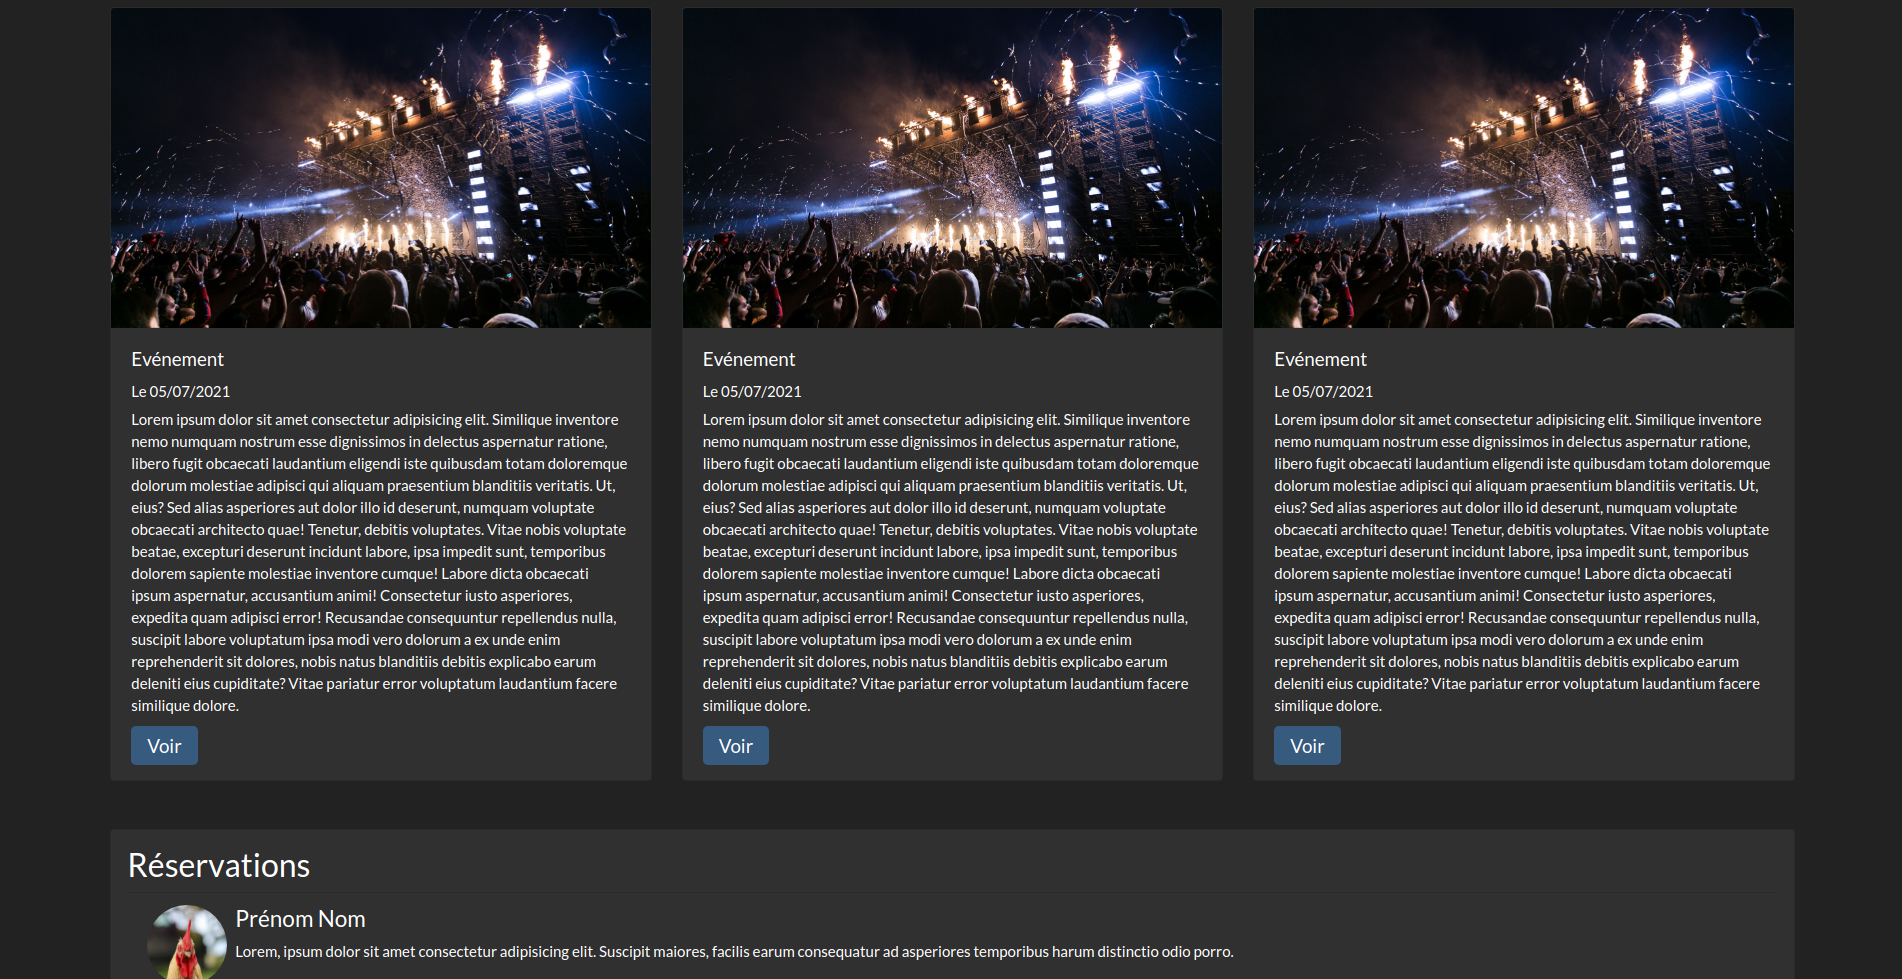
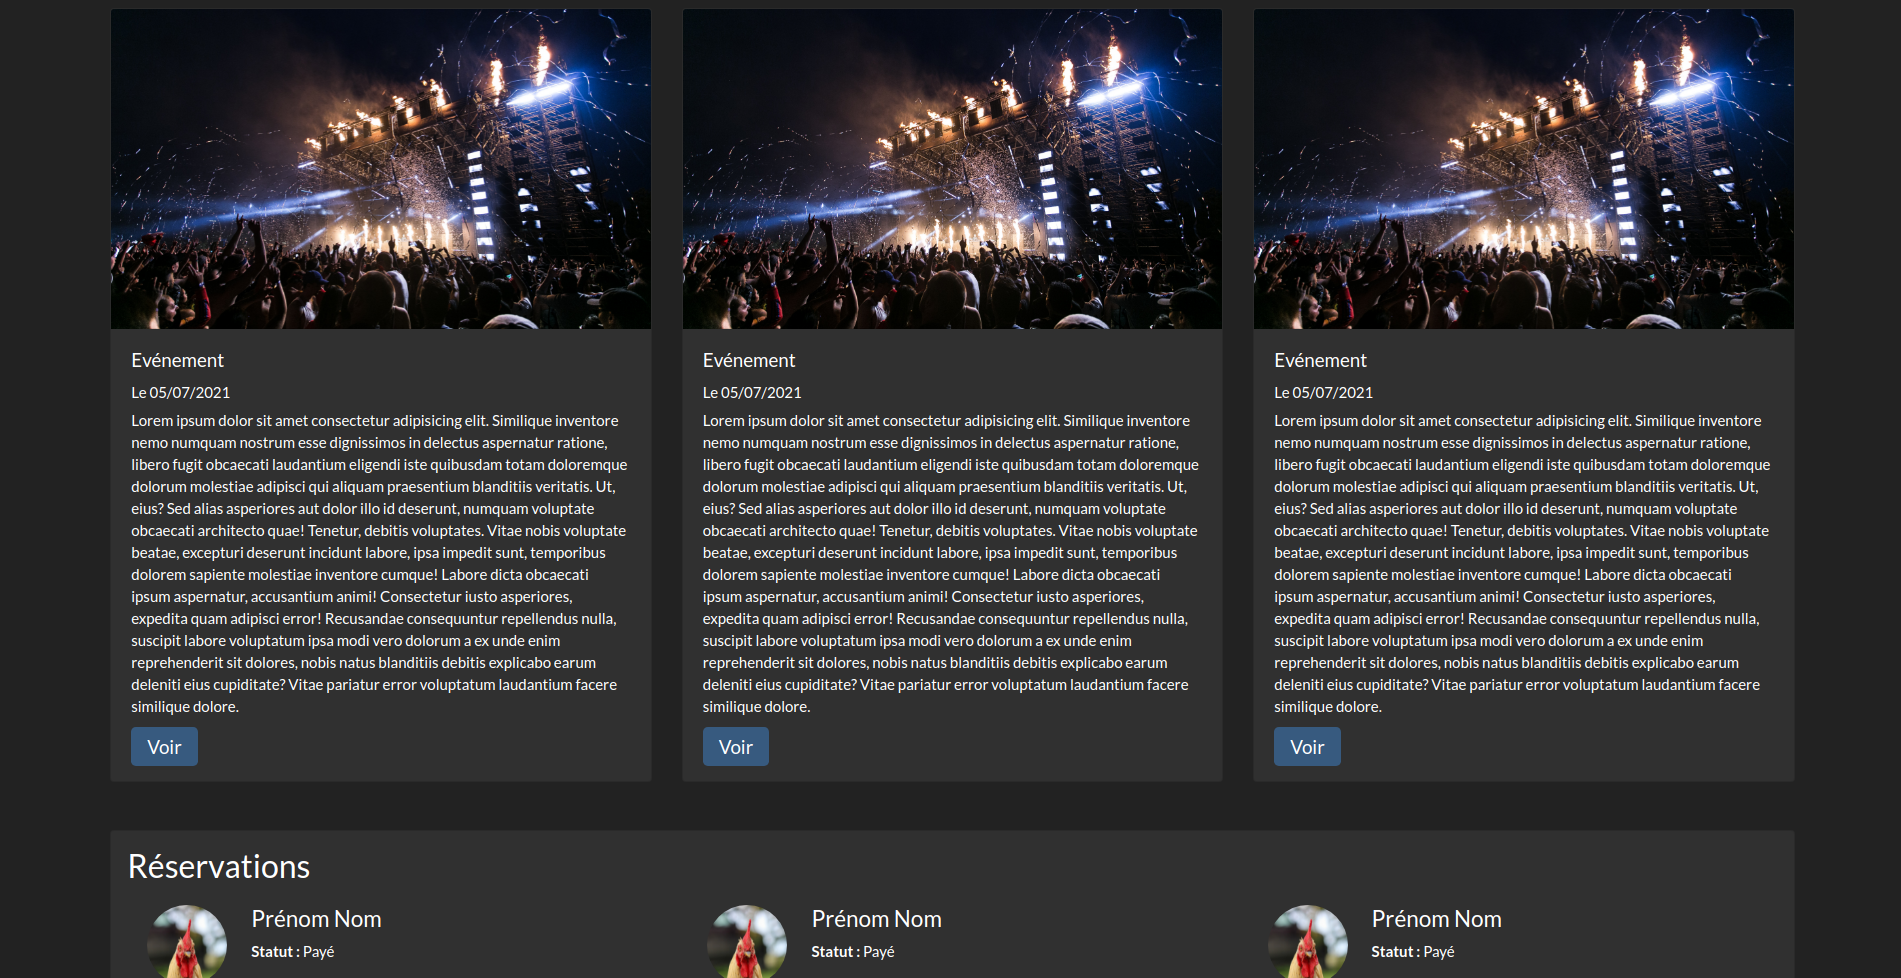
ajout de la molécule commentaire

diff --git a/events.html b/events.html
@@ -59,35 +59,101 @@
             <div class="col">
                 <div class="card p-3 bg-dark">
                     <h3 class="cart-title">Réservations</h3>
-                    <ul class="list-group list-group-flush">
-                        <li class="list-group-item">
-                            <div class="media">
-                                <div class="media-img img-center mr-2"></div>
-                                <div class="media-body">
-                                    <h4>Prénom Nom</h4>
-                                    <p>Lorem, ipsum dolor sit amet consectetur adipisicing elit. Suscipit maiores, facilis earum consequatur ad asperiores temporibus harum distinctio odio porro.</p>
-                                </div>
-                            </div>
-                        </li>
-                        <li class="list-group-item">
-                            <div class="media">
-                                <div class="media-img img-center mr-2"></div>
-                                <div class="media-body">
-                                    <h4>Prénom Nom</h4>
-                                    <p>Lorem, ipsum dolor sit amet consectetur adipisicing elit. Suscipit maiores, facilis earum consequatur ad asperiores temporibus harum distinctio odio porro.</p>
-                                </div>
-                            </div>
-                        </li>
-                        <li class="list-group-item">
-                            <div class="media">
-                                <div class="media-img img-center mr-2"></div>
-                                <div class="media-body">
-                                    <h4>Prénom Nom</h4>
-                                    <p>Lorem, ipsum dolor sit amet consectetur adipisicing elit. Suscipit maiores, facilis earum consequatur ad asperiores temporibus harum distinctio odio porro.</p>
-                                </div>
-                            </div>
-                        </li>
-                    </ul>
+                    <div class="row cols-3">
+                        <div class="col">
+                            <ul class="list-group list-group-flush">
+                                <li class="list-group-item">
+                                    <div class="media">
+                                        <div class="media-img img-center mr-4"></div>
+                                        <div class="media-body">
+                                            <h4>Prénom Nom</h4>
+                                            <p><strong>Statut :</strong> Payé</p>
+                                        </div>
+                                    </div>
+                                </li>
+                                <li class="list-group-item">
+                                    <div class="media">
+                                        <div class="media-img img-center mr-4"></div>
+                                        <div class="media-body">
+                                            <h4>Prénom Nom</h4>
+                                            <p><strong>Statut :</strong> Payé</p>
+                                        </div>
+                                    </div>
+                                </li>
+                                <li class="list-group-item">
+                                    <div class="media">
+                                        <div class="media-img img-center mr-4"></div>
+                                        <div class="media-body">
+                                            <h4>Prénom Nom</h4>
+                                            <p><strong>Statut :</strong> Payé</p>
+                                        </div>
+                                    </div>
+                                </li>
+                            </ul>
+                        </div>
+                        <div class="col">
+                            <ul class="list-group list-group-flush">
+                                <li class="list-group-item">
+                                    <div class="media">
+                                        <div class="media-img img-center mr-4"></div>
+                                        <div class="media-body">
+                                            <h4>Prénom Nom</h4>
+                                            <p><strong>Statut :</strong> Payé</p>
+                                        </div>
+                                    </div>
+                                </li>
+                                <li class="list-group-item">
+                                    <div class="media">
+                                        <div class="media-img img-center mr-4"></div>
+                                        <div class="media-body">
+                                            <h4>Prénom Nom</h4>
+                                            <p><strong>Statut :</strong> Payé</p>
+                                        </div>
+                                    </div>
+                                </li>
+                                <li class="list-group-item">
+                                    <div class="media">
+                                        <div class="media-img img-center mr-4"></div>
+                                        <div class="media-body">
+                                            <h4>Prénom Nom</h4>
+                                            <p><strong>Statut :</strong> Payé</p>
+                                        </div>
+                                    </div>
+                                </li>
+                            </ul>
+                        </div>
+                        <div class="col">
+                            <ul class="list-group list-group-flush">
+                                <li class="list-group-item">
+                                    <div class="media">
+                                        <div class="media-img img-center mr-4"></div>
+                                        <div class="media-body">
+                                            <h4>Prénom Nom</h4>
+                                            <p><strong>Statut :</strong> Payé</p>
+                                        </div>
+                                    </div>
+                                </li>
+                                <li class="list-group-item">
+                                    <div class="media">
+                                        <div class="media-img img-center mr-4"></div>
+                                        <div class="media-body">
+                                            <h4>Prénom Nom</h4>
+                                            <p><strong>Statut :</strong> Payé</p>
+                                        </div>
+                                    </div>
+                                </li>
+                                <li class="list-group-item">
+                                    <div class="media">
+                                        <div class="media-img img-center mr-4"></div>
+                                        <div class="media-body">
+                                            <h4>Prénom Nom</h4>
+                                            <p><strong>Statut :</strong> Payé</p>
+                                        </div>
+                                    </div>
+                                </li>
+                            </ul>
+                        </div>
+                    </div>
                 </div>
             </div>
         </div>

diff --git a/comment.html b/comment.html
@@ -1,0 +1,39 @@
+<!DOCTYPE html>
+<html lang="fr">
+<head>
+    <meta charset="UTF-8">
+    <meta http-equiv="X-UA-Compatible" content="IE=edge">
+    <meta name="viewport" content="width=device-width, initial-scale=1.0">
+    <title>My Eventbrite | Comment</title>
+    <link rel="stylesheet" href="https://cdn.jsdelivr.net/npm/bootswatch@4.5.2/dist/darkly/bootstrap.min.css" integrity="sha384-nNK9n28pDUDDgIiIqZ/MiyO3F4/9vsMtReZK39klb/MtkZI3/LtjSjlmyVPS3KdN" crossorigin="anonymous">
+    <link rel="stylesheet" href="style.css">
+</head>
+<body>
+    <a href="./index.html" class="btn btn-primary mt-3 ml-3 mb-3">Retour à l'index</a>
+
+    <div class="container">
+        <div class="row cols-1">
+            <div class="col">
+
+                <div class="card-custom p-3 bg-dark">
+                    <ul class="list-group list-group-flush">
+                        <li class="list-group-item">
+                            <div class="media">
+                                <div class="media-img img-center mr-3"></div>
+                                <div class="media-body">
+                                    <h4>Prénom Nom</h4>
+                                    <h5>25/05/2021 14:52</h5>
+                                    <p>Lorem, ipsum dolor sit amet consectetur adipisicing elit. Suscipit maiores, facilis earum consequatur ad asperiores temporibus harum distinctio odio porro.</p>
+                                </div>
+                            </div>
+                        </li>
+                    </ul>
+                </div>
+
+            </div>
+        </div>
+    </div>
+    <script src="https://cdn.jsdelivr.net/npm/@popperjs/core@2.9.2/dist/umd/popper.min.js" integrity="sha384-IQsoLXl5PILFhosVNubq5LC7Qb9DXgDA9i+tQ8Zj3iwWAwPtgFTxbJ8NT4GN1R8p" crossorigin="anonymous"></script>
+    <script src="https://cdn.jsdelivr.net/npm/bootstrap@5.0.1/dist/js/bootstrap.min.js" integrity="sha384-Atwg2Pkwv9vp0ygtn1JAojH0nYbwNJLPhwyoVbhoPwBhjQPR5VtM2+xf0Uwh9KtT" crossorigin="anonymous"></script>
+</body>
+</html>

diff --git a/index.html b/index.html
@@ -12,7 +12,7 @@
      <div class="jumbotron-fluid text-center mb-5 bg-primary">
          <h1 class="display-3">Thème exemple</h1>
      </div>
-     <div class="container">
+     <div class="container index-cont">
 
         <div class="row cols-2 mb-5">
             <div class="col text-center">
@@ -87,6 +87,32 @@
                     <div class="card-img-top img-center img-events"></div>
                     <div class="card-body bg-light">
                         <a href="./events.html" class="btn-lg btn-success">Voir</a>
+                    </div>
+                </div>
+            </div>
+        </div>
+
+        <div class="row cols-2 mb-5">
+            <div class="col text-center">
+                <div class="card-custom">
+                    <div class="card-header text-start">
+                        <h3>Commentaire</h3>
+                    </div>
+                    <div class="card-img-top img-center img-comment"></div>
+                    <div class="card-body bg-light">
+                        <a href="./comment.html" class="btn-lg btn-success">Voir</a>
+                    </div>
+                </div>
+            </div>
+
+            <div class="col text-center">
+                <div class="card-custom">
+                    <div class="card-header text-start">
+                        <h3>Section Commentaires</h3>
+                    </div>
+                    <div class="card-img-top img-center img-comment-section"></div>
+                    <div class="card-body bg-light">
+                        <a href="./comment_section.html" class="btn-lg btn-success">Voir</a>
                     </div>
                 </div>
             </div>

diff --git a/cards.html b/cards.html
@@ -32,10 +32,10 @@
                     <ul class="list-group list-group-flush">
                         <li class="list-group-item">
                             <div class="media">
-                                <div class="media-img img-center mr-2"></div>
+                                <div class="media-img img-center mr-3"></div>
                                 <div class="media-body">
                                     <h4>Prénom Nom</h4>
-                                    <p>Lorem, ipsum dolor sit amet consectetur adipisicing elit. Suscipit maiores, facilis earum consequatur ad asperiores temporibus harum distinctio odio porro.</p>
+                                    <p><strong>Statut :</strong> Payé</p>
                                 </div>
                             </div>
                         </li>

diff --git a/style.css b/style.css
@@ -14,6 +14,9 @@
 .container {
     max-width: 100%;
 }
+.index-cont {
+    max-width: 80%;
+}
 
     /* Images */
 
@@ -40,6 +43,9 @@
 }
 .img-events {
     background-image: url(./images/event-list.png);
+}
+.img-comment {
+    background-image: url(./images/comment.png);
 }
 
 /* ---------------------------------------------------------- */
